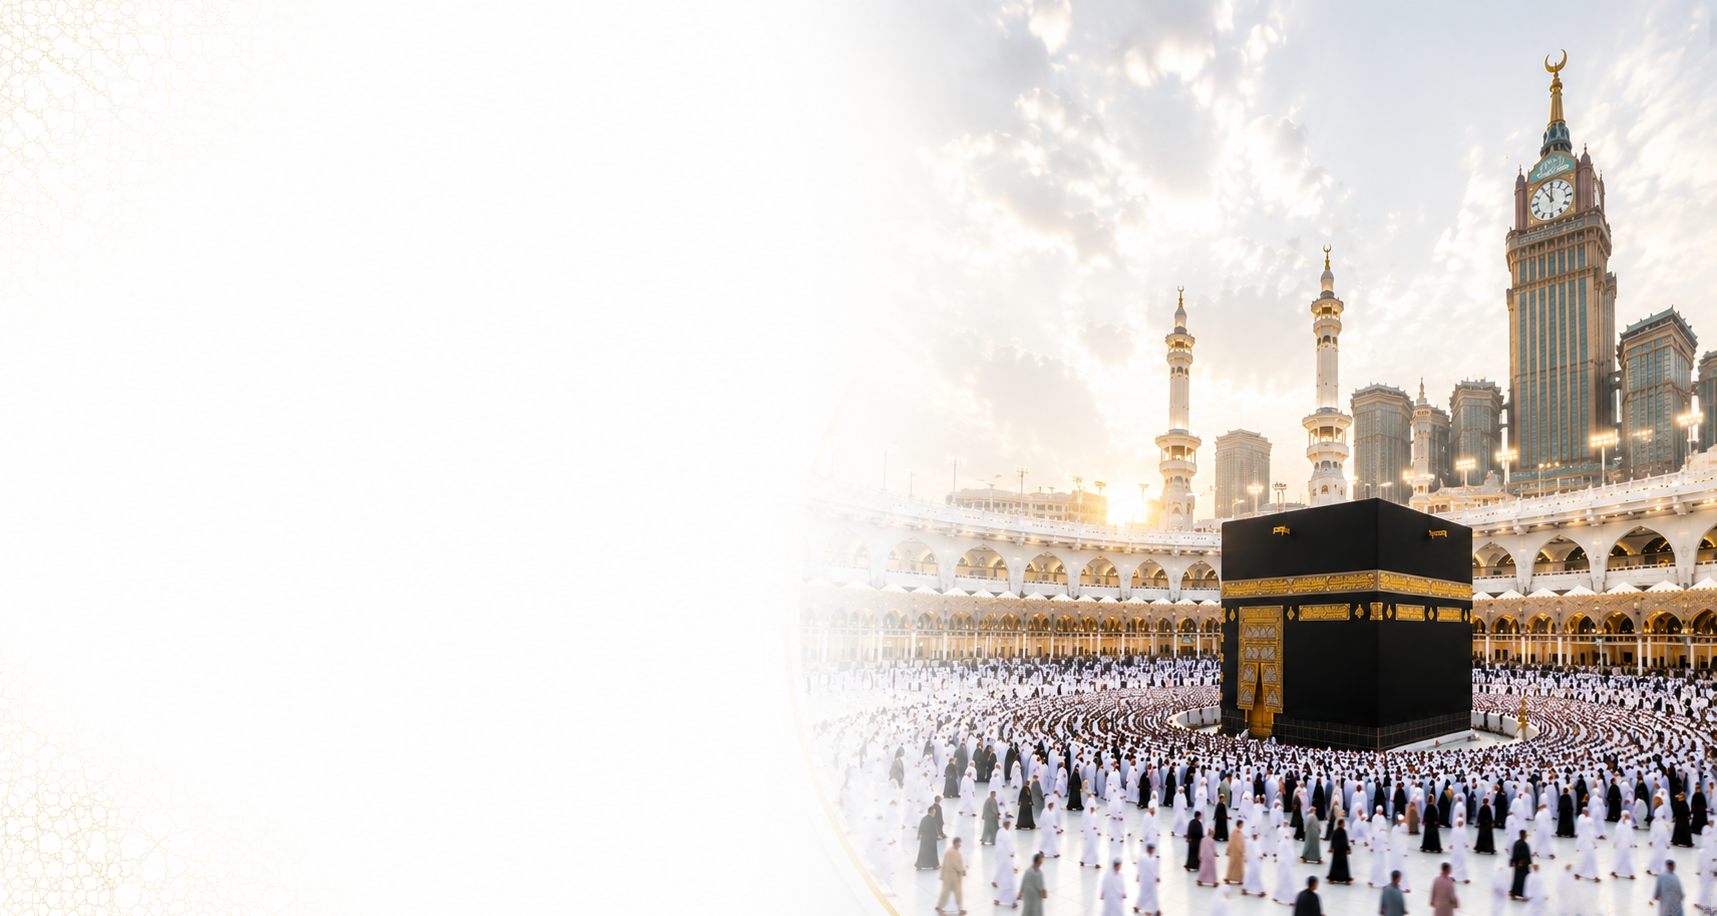
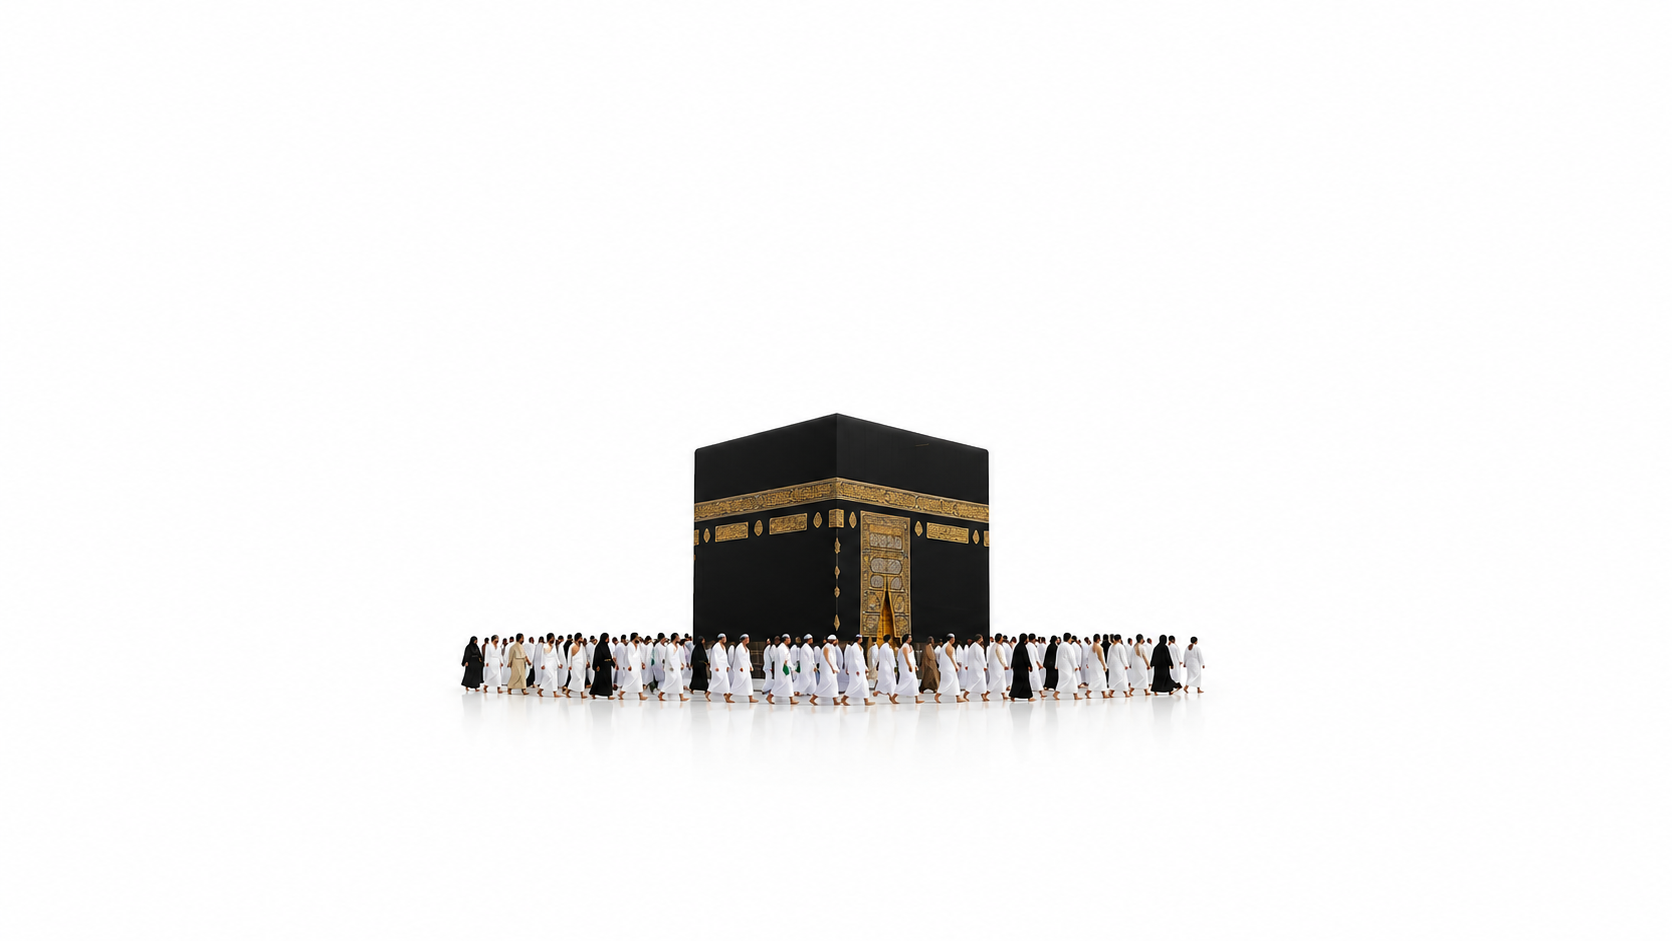
updated home hero section

diff --git a/src/components/Home/HomeHero.tsx b/src/components/Home/HomeHero.tsx
@@ -77,7 +77,7 @@ export function HomeHero() {
   return (
     <section
       aria-labelledby="hero-heading"
-      className="relative flex items-center overflow-hidden bg-background py-12 sm:py-16 sm:min-h-[64vh] lg:min-h-[70vh] lg:py-20 border-b border-accent/20"
+      className="relative flex items-center overflow-hidden bg-white pb-8 pt-6 sm:pb-6 sm:pt-8 sm:min-h-[64vh] lg:min-h-[70vh] lg:pb-12 lg:pt-10 border-b border-accent/20"
     >
       <div className="absolute inset-0 overflow-hidden pointer-events-none" aria-hidden="true">
         <div className="absolute -top-40 -left-40 h-96 w-96 rounded-full bg-brand/5 blur-3xl" />
@@ -137,12 +137,13 @@ export function HomeHero() {
           </div>
 
           {/* Right Column */}
+          {/* Right Column */}
           <div className="relative flex flex-col items-center lg:col-span-6">
             <div
               className="absolute inset-0 -z-10 flex items-center justify-center pointer-events-none"
               aria-hidden="true"
             >
-              <div className="motion-safe:animate-pulse h-72 w-72 rounded-full bg-gradient-to-tr from-accent/20 to-brand/10 blur-3xl sm:h-80 sm:w-80" />
+              <div className="motion-safe:[animation:pulse_5s_ease-in-out_infinite] h-72 w-72 rounded-full bg-gradient-to-tr from-accent/20 to-brand/10 blur-3xl sm:h-80 sm:w-80" />
             </div>
 
             <div className="relative h-72 w-72 sm:h-96 sm:w-96 lg:h-[420px] lg:w-[420px]">
@@ -155,27 +156,26 @@ export function HomeHero() {
                 aria-hidden="true"
               />
               <div
-                className="motion-safe:[animation:spin_70s_linear_infinite] absolute inset-4 rounded-full border border-dashed border-accent/40"
+                className="motion-safe:[animation:spin_120s_linear_infinite] absolute inset-4 rounded-full border border-dashed border-accent/40"
                 aria-hidden="true"
               />
 
               {/* Verse card */}
-              <div className="absolute left-1/2 top-1/2 w-44 -translate-x-1/2 -translate-y-1/2 sm:w-52 lg:w-60 motion-safe:animate-[float_6s_ease-in-out_infinite]">
-                <div className="relative overflow-hidden rounded-tl-[24px] rounded-br-[24px] rounded-tr-md rounded-bl-md border border-accent/40 bg-brand p-4 text-center shadow-[0_16px_40px_rgba(30,107,82,0.3)] sm:p-5">
-                  <div className="absolute inset-x-0 top-0 h-1 bg-accent" aria-hidden="true" />
+              <div className="absolute left-1/2 top-1/2 w-44 -translate-x-1/2 -translate-y-1/2 sm:w-52 lg:w-60 motion-safe:[animation:float_9s_ease-in-out_infinite]">
+                <div className="relative overflow-hidden rounded-tl-[24px] rounded-br-[24px] rounded-tr-md rounded-bl-md border border-brand/30 bg-accent p-4 text-center shadow-[0_16px_40px_rgba(201,162,39,0.3)] sm:p-5">
+                  <div className="absolute inset-x-0 top-0 h-1 bg-brand" aria-hidden="true" />
                   <p
                     dir="rtl"
                     lang="ar"
-                    style={{ color: '#ffffff' }}
-                    className="font-heading text-base font-bold leading-[1.6] sm:text-lg lg:text-xl drop-shadow-xs"
+                    className="font-heading text-base font-bold leading-[1.6] text-primary sm:text-lg lg:text-xl"
                   >
                     وَأَتِمُّوا الْحَجَّ وَالْعُمْرَةَ لِلَّهِ
                   </p>
-                  <div className="mx-auto my-2.5 h-px w-10 bg-accent/70" aria-hidden="true" />
-                  <span className="text-[9px] font-medium uppercase tracking-wider text-accent sm:text-[10px]">
+                  <div className="mx-auto my-2.5 h-px w-10 bg-brand/70" aria-hidden="true" />
+                  <span className="text-[9px] font-medium uppercase tracking-wider text-brand sm:text-[10px]">
                     Al-Baqarah • 2:196
                   </span>
-                  <div className="absolute inset-x-0 bottom-0 h-1 bg-accent" aria-hidden="true" />
+                  <div className="absolute inset-x-0 bottom-0 h-1 bg-brand" aria-hidden="true" />
                 </div>
               </div>
 
@@ -184,9 +184,9 @@ export function HomeHero() {
                   <li
                     key={item.title}
                     style={{ ...item.pos, transform: 'translate(-50%, -50%)' }}
-                    className="absolute flex w-24 flex-col items-center rounded-xl border border-accent/30 bg-white/95 p-2.5 text-center shadow-[0_10px_25px_rgba(201,162,39,0.15)] backdrop-blur-md transition-transform duration-300 hover:-translate-y-[calc(50%+4px)] sm:w-28 lg:w-32 lg:p-3"
+                    className="absolute flex w-24 flex-col items-center rounded-xl border border-accent/30 bg-brand p-2.5 text-center shadow-[0_10px_25px_rgba(201,162,39,0.15)] backdrop-blur-md transition-transform duration-700 ease-out hover:-translate-y-[calc(50%+4px)] sm:w-28 lg:w-32 lg:p-3"
                   >
-                    <div className="mb-1.5 flex h-7 w-7 items-center justify-center rounded-full bg-accent/15 text-brand sm:h-8 sm:w-8">
+                    <div className="mb-1.5 flex h-7 w-7 items-center justify-center rounded-full bg-white/15 text-white sm:h-8 sm:w-8">
                       <svg
                         viewBox="0 0 24 24"
                         fill="none"
@@ -196,10 +196,10 @@ export function HomeHero() {
                         {item.icon}
                       </svg>
                     </div>
-                    <h3 className="text-[10px] font-bold text-brand sm:text-[11px] leading-tight">
+                    <h3 className="text-[10px] font-bold text-white sm:text-[11px] leading-tight">
                       {item.title}
                     </h3>
-                    <p className="text-[8px] leading-tight text-secondary sm:text-[9px] mt-0.5">
+                    <p className="text-[8px] leading-tight text-white/80 sm:text-[9px] mt-0.5">
                       {item.desc}
                     </p>
                   </li>
